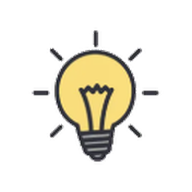
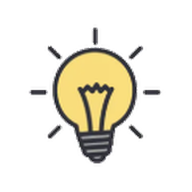
Add files via upload

Changed region(s): [[0.1562, 0.125, 0.8438, 0.875], [0.7188, 0.6875, 0.75, 0.75]]

diff --git a/bid-monitor-github/static/sw.js b/bid-monitor-github/static/sw.js
@@ -1,34 +1,12 @@
-/* 입찰공고 모니터 — 서비스 워커
-   index.html/아이콘: 캐시 우선 + 백그라운드 갱신, data.json: 네트워크 우선(8초) + 실패 시 캐시 */
-const CACHE = "bidmon-v1";
-const SHELL = ["./", "./index.html", "./manifest.webmanifest", "./icon-192.png", "./icon-512.png"];
-self.addEventListener("install", e => {
-  e.waitUntil(caches.open(CACHE).then(c => c.addAll(SHELL).catch(() => {})).then(() => self.skipWaiting()));
-});
-self.addEventListener("activate", e => {
-  e.waitUntil(caches.keys().then(ks => Promise.all(ks.filter(k => k !== CACHE).map(k => caches.delete(k)))).then(() => self.clients.claim()));
-});
-function withTimeout(p, ms) { return Promise.race([p, new Promise((_, rej) => setTimeout(() => rej(new Error("timeout")), ms))]); }
-self.addEventListener("fetch", e => {
-  const req = e.request;
-  if (req.method !== "GET" || new URL(req.url).origin !== location.origin) return;
-  const isData = req.url.includes("data.json");
-  e.respondWith((async () => {
-    const cache = await caches.open(CACHE);
-    const key = isData ? new Request(req.url.split("?")[0]) : req;   // data.json 은 ?v= 를 떼고 한 벌만 보관
-    if (isData) {
-      try {
-        const res = await withTimeout(fetch(req, { cache: "no-store" }), 8000);
-        if (res.ok) cache.put(key, res.clone());
-        return res;
-      } catch (_) {
-        const hit = await cache.match(key);
-        if (hit) return hit;
-        throw _;
-      }
-    }
-    const hit = await cache.match(key);
-    const net = fetch(req).then(res => { if (res.ok) cache.put(key, res.clone()); return res; }).catch(() => null);
-    return hit || (await net) || Response.error();
-  })());
+/* 입찰공고 모니터 서비스워커: 틀(index.html·아이콘)은 캐시 우선, 데이터(data.json·meta.json·GitHub API)는 항상 네트워크 */
+const C="bidmon-shell-v3";
+const SHELL=["./","./index.html","./manifest.webmanifest","./icon-192.png","./icon-512.png","./apple-touch-icon.png"];
+self.addEventListener("install",e=>{e.waitUntil(caches.open(C).then(c=>c.addAll(SHELL).catch(()=>{})));self.skipWaiting();});
+self.addEventListener("activate",e=>{e.waitUntil(caches.keys().then(ks=>Promise.all(ks.filter(k=>k!==C).map(k=>caches.delete(k)))));self.clients.claim();});
+self.addEventListener("fetch",e=>{
+  const u=new URL(e.request.url);
+  if(e.request.method!=="GET")return;
+  if(u.origin!==location.origin||/data\.json|meta\.json|state\//.test(u.pathname))return;      // 데이터·API는 네트워크 그대로
+  e.respondWith(fetch(e.request).then(r=>{const cp=r.clone();caches.open(C).then(c=>c.put(e.request,cp));return r;})
+    .catch(()=>caches.match(e.request).then(r=>r||caches.match("./index.html"))));
 });
